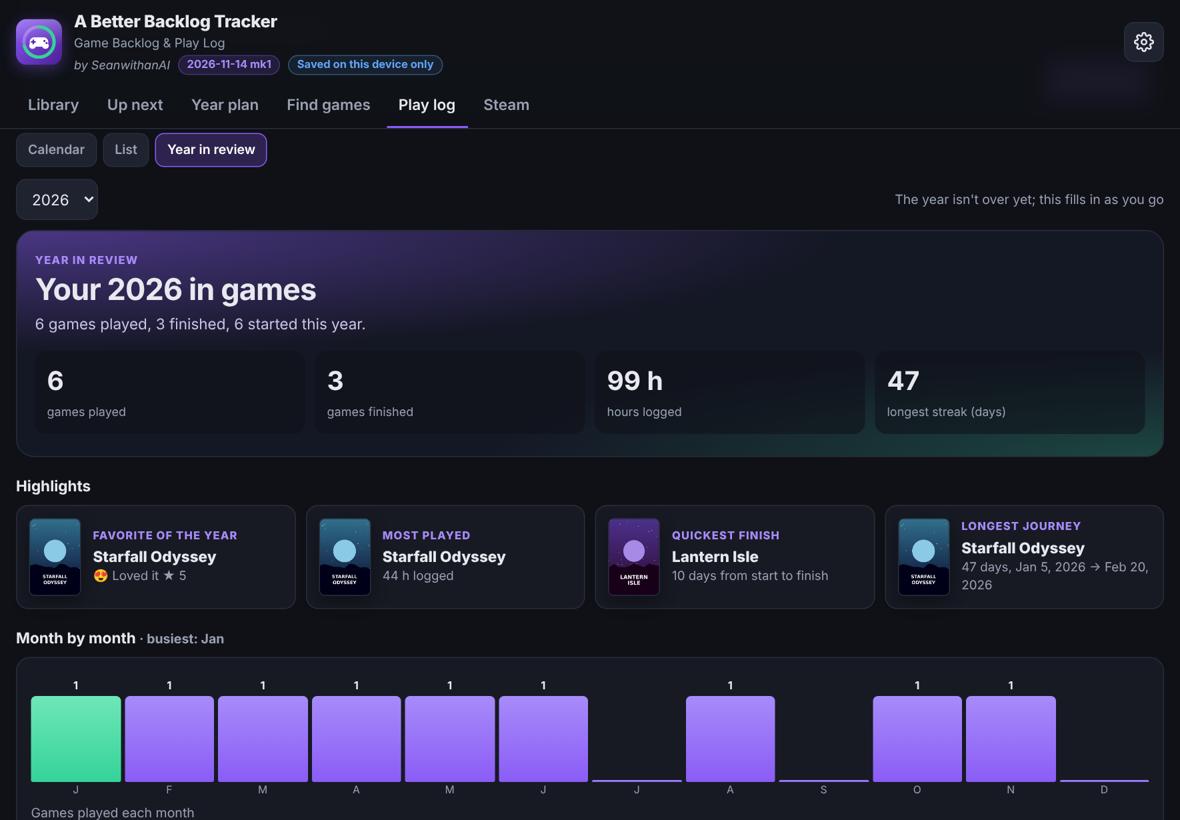
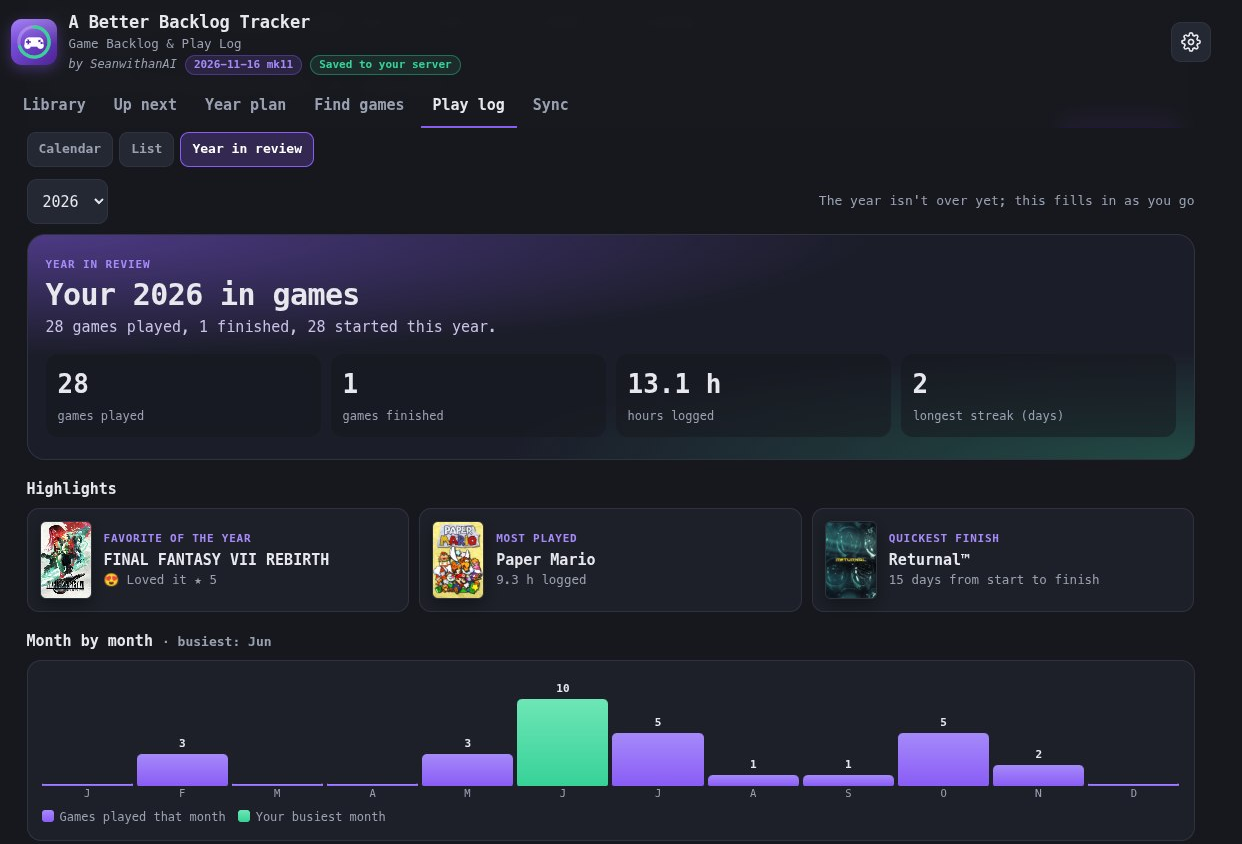
README: screenshots from a real library
Claude-Session: https://claude.ai/code/session_01JotVZ5QiKzr5tPAoQnnmwj

diff --git a/README.md b/README.md
@@ -18,7 +18,7 @@
 
 </div>
 
-![Library: cover-art tiles with status, main-story time and hours played](docs/screenshots/library.png)
+![Library: cover-art tiles with status, excitement, player rating and main-story time](docs/screenshots/library.png)
 
 ---
 
@@ -61,15 +61,15 @@ Backloggd has no export of its own, so a free, open-source browser extension add
 
 ## Screenshots
 
-| Up next | Year in review |
+| Up next | Year plan |
 |---|---|
-| ![Up next: the top pick with reasons, and other good picks](docs/screenshots/upnext.png) | ![Year in review: totals, highlights and month by month](docs/screenshots/recap.png) |
+| ![Up next: the top pick with reasons, and other good picks](docs/screenshots/upnext.png) | ![Year plan: a goal and weekly hours, with games laid out month by month and new releases starting the month they come out](docs/screenshots/plan.png) |
 
-| Year plan |
-|---|
-| ![Year plan: games laid out month by month, with must-play pins](docs/screenshots/plan.png) |
+| Year in review | Play log calendar |
+|---|---|
+| ![Year in review: totals, highlights and month by month](docs/screenshots/recap.png) | ![Play log calendar: covers on the days you played](docs/screenshots/calendar.png) |
 
-<sub>Screenshots use made-up games and example data.</sub>
+<sub>Screenshots from a real library.</sub>
 
 ## Getting started
 
